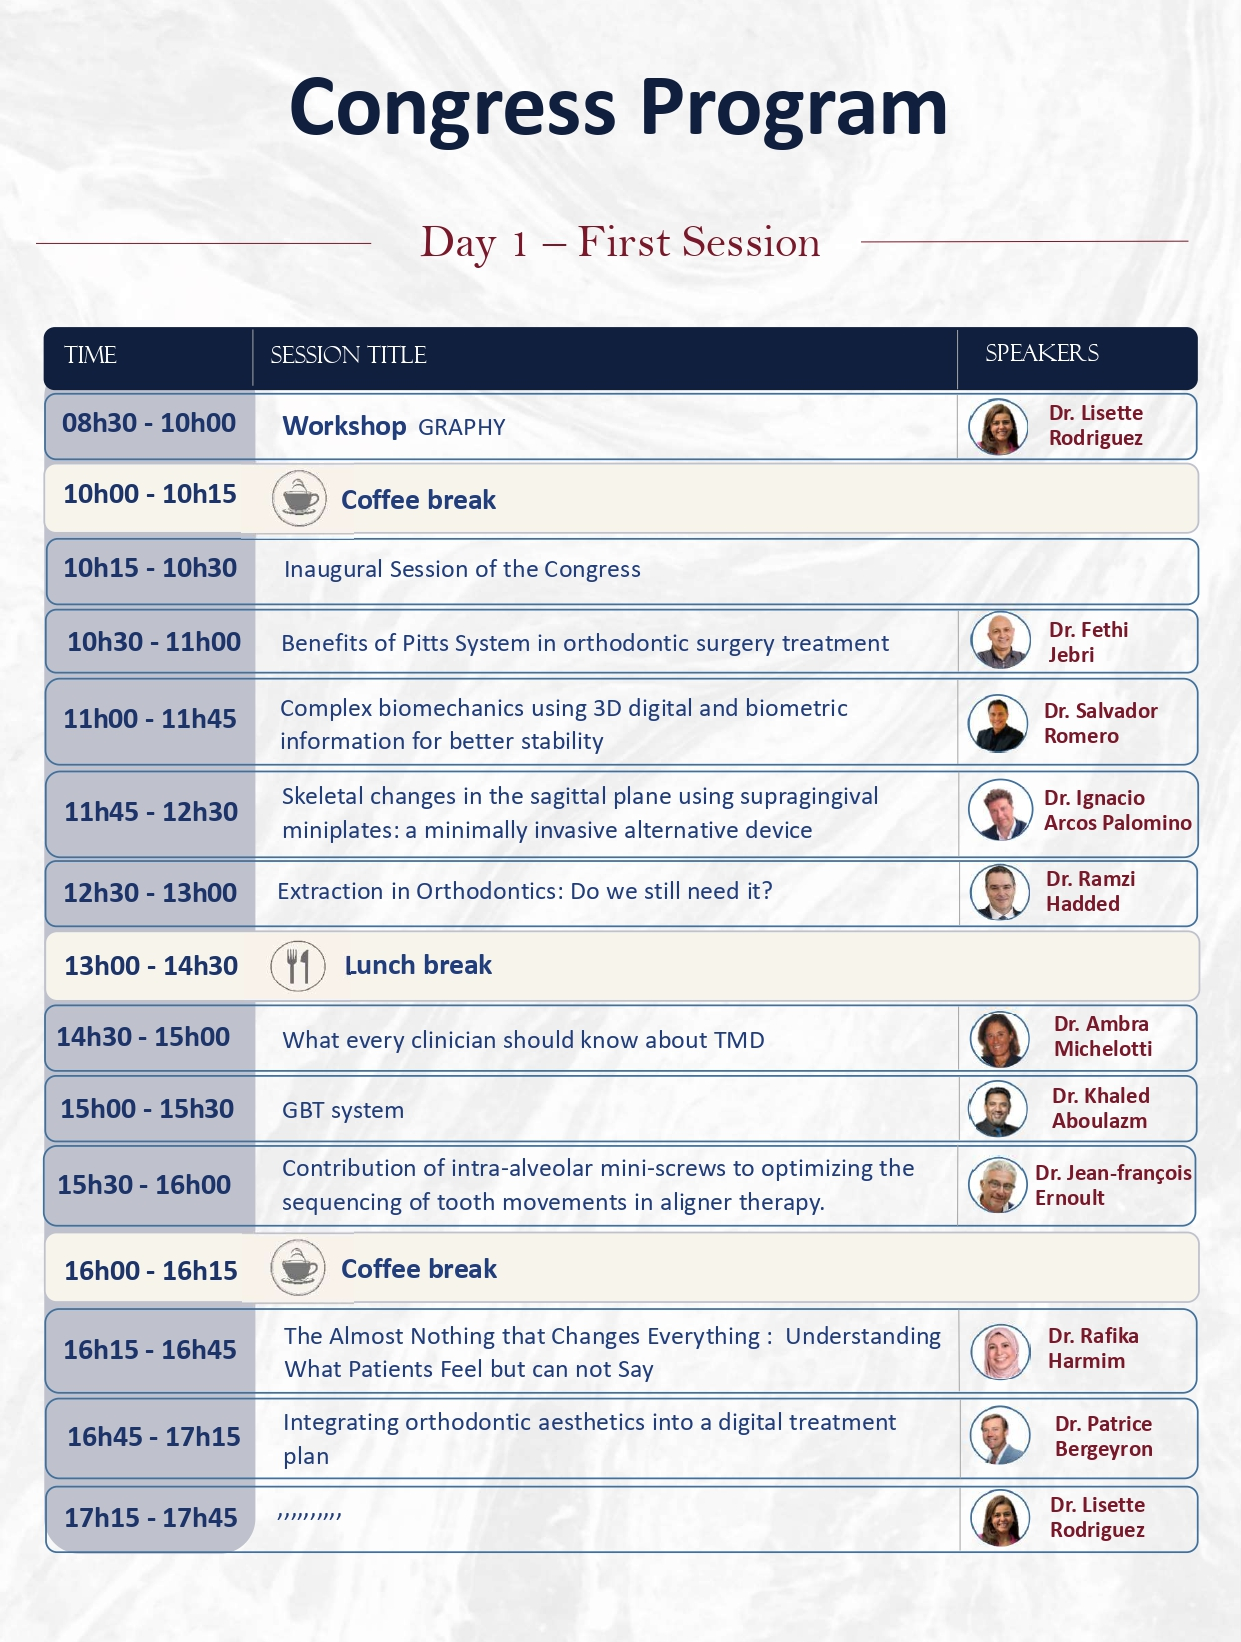
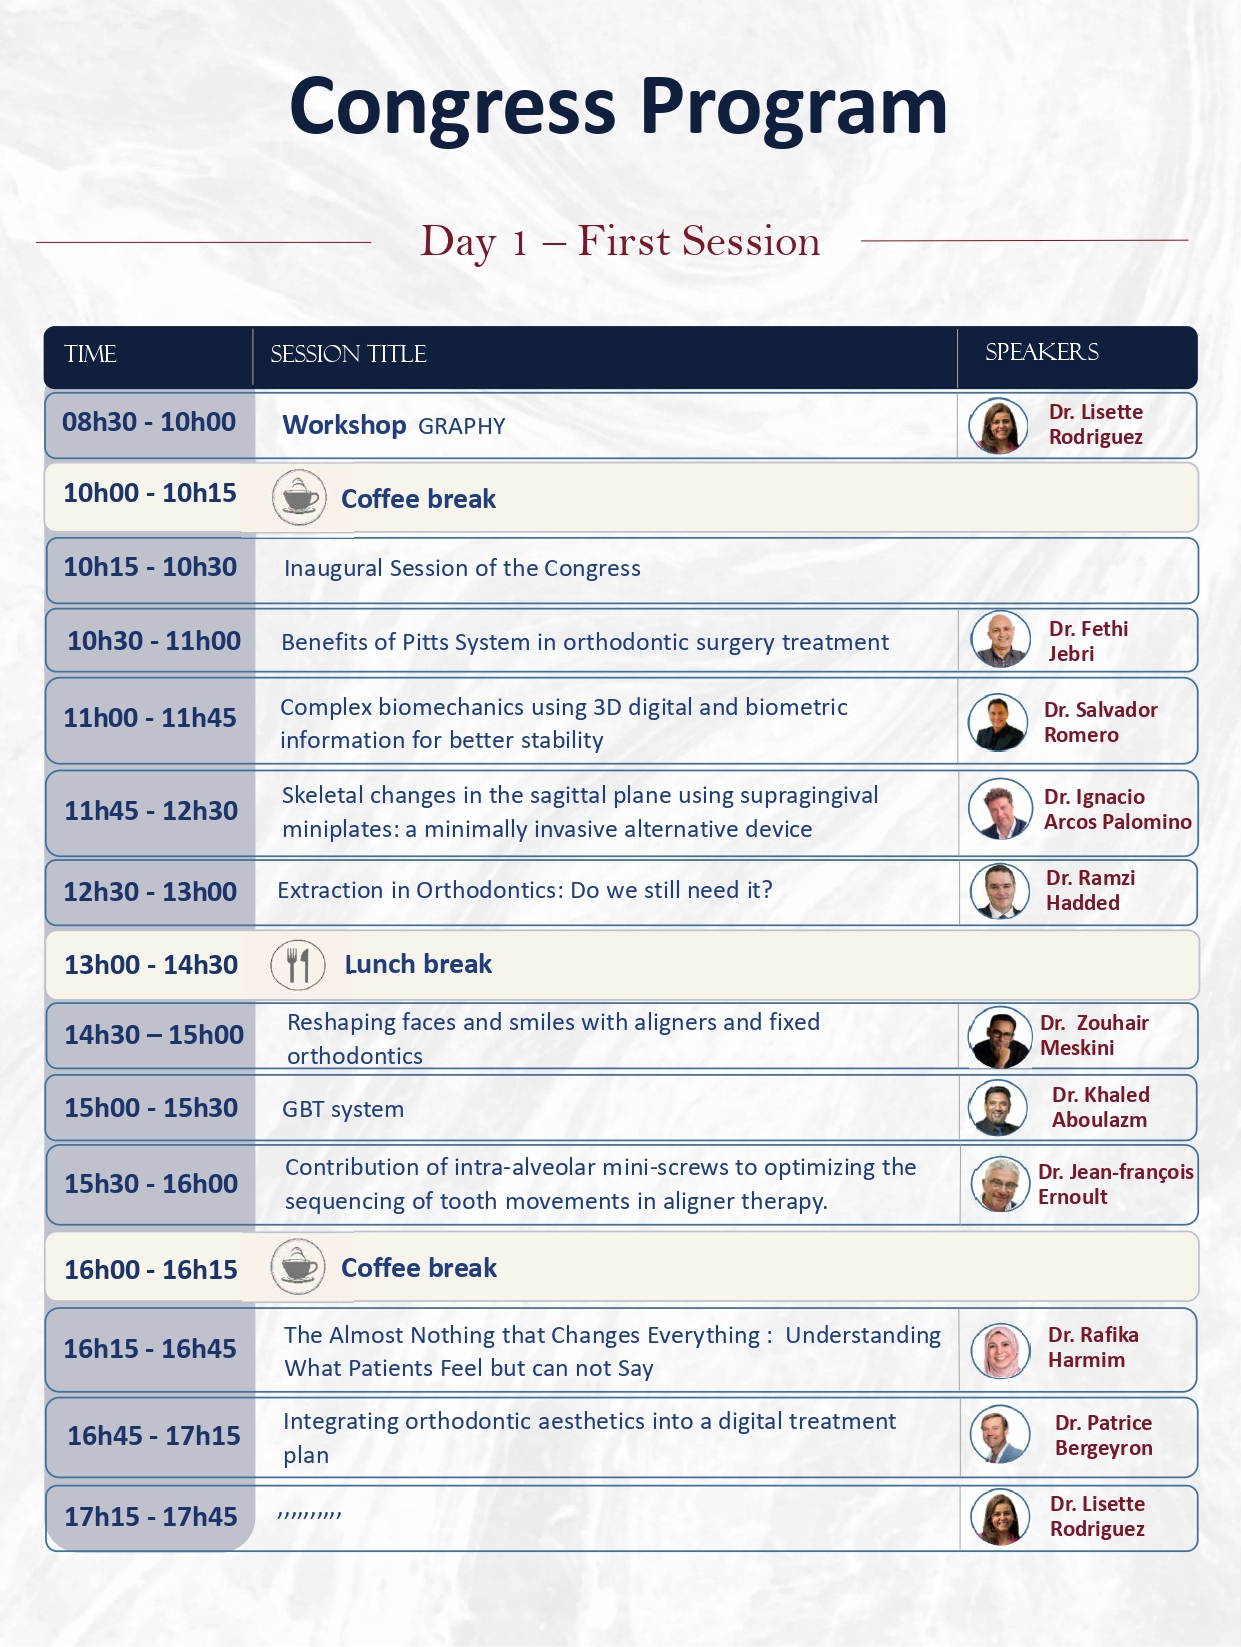
correct time zouhair meskini

diff --git a/src/pages/HomePage.jsx b/src/pages/HomePage.jsx
@@ -107,7 +107,7 @@ export default function HomePage() {
 
 
 
-<section className="section-shell">
+      <section className="section-shell">
         <div className="glass-card overflow-hidden p-6 sm:p-8 lg:p-10">
           <div className="grid gap-8 lg:grid-cols-[320px_1fr] lg:items-start">
             <div className="flex flex-col items-center text-center lg:items-start lg:text-left">
@@ -155,8 +155,8 @@ export default function HomePage() {
           <SectionHeader eyebrow="Speakers" title="Meet Our Speakers" />
           <Link
             to="/speakers"
-            className="rounded-full border border-slate-200 px-5 py-3 text-sm font-semibold text-slate-700 transition hover:bg-white"
-          >
+            ///className="rounded-full border border-slate-200 px-5 py-3 text-sm font-semibold text-slate-700 transition hover:bg-white"
+            className="rounded-full bg-blue-900 px-5 py-3 text-sm font-semibold text-white transition hover:bg-blue-800"          >
             See all
           </Link>
         </div>

diff --git a/src/data/siteData.js b/src/data/siteData.js
@@ -72,16 +72,37 @@ export const keynoteSpeakers = [
     image: abdelhakim,
   },
   {
-    name: "Dr. Ambra Michelotti",
-    nationality: "Italy",
-    flag: "🇮🇹",
-    image: ambre,
+    name: "Dr. Zouhair Meskini",
+    nationality: "Tunisia",
+    flag: "🇹🇳",
+    image: zouhair_meskini,
   },
+
   {
     name: "Dr. Mulhem Dumirieh",
     nationality: "Syria",
     flag: "🇸🇾",
     image: mulhim,
+  },
+  {
+    name: "Dr. Yamen Labidi",
+    nationality: "Tunisia",
+    flag: "🇹🇳",
+    image: yamen,
+  },
+
+    {
+    name: "Dr. María Hernández Vilarrasa",
+    nationality: "Spain",
+    flag: "🇪🇸",
+    image: maria,
+  },
+
+  {
+    name: "Dr. Skandar Ellouze",
+    nationality: "Tunisia",
+    flag: "🇹🇳",
+    image: skandar,
   },
 ];
 export const speakers = [

diff --git a/dist/index.html b/dist/index.html
@@ -8,8 +8,8 @@
       content="11th International Orthodontics Congress — 13 & 14 June 2026 at Golden Tulip Taj Sultan Hammamet."
     />
     <title>ATREO International Orthodontics Congress</title>
-    <script type="module" crossorigin src="/assets/index-CepIU5vX.js"></script>
-    <link rel="stylesheet" crossorigin href="/assets/index-WocRGuwg.css">
+    <script type="module" crossorigin src="/assets/index-BCTuV0vO.js"></script>
+    <link rel="stylesheet" crossorigin href="/assets/index-s0GDzA3L.css">
   </head>
   <body>
     <div id="root"></div>
